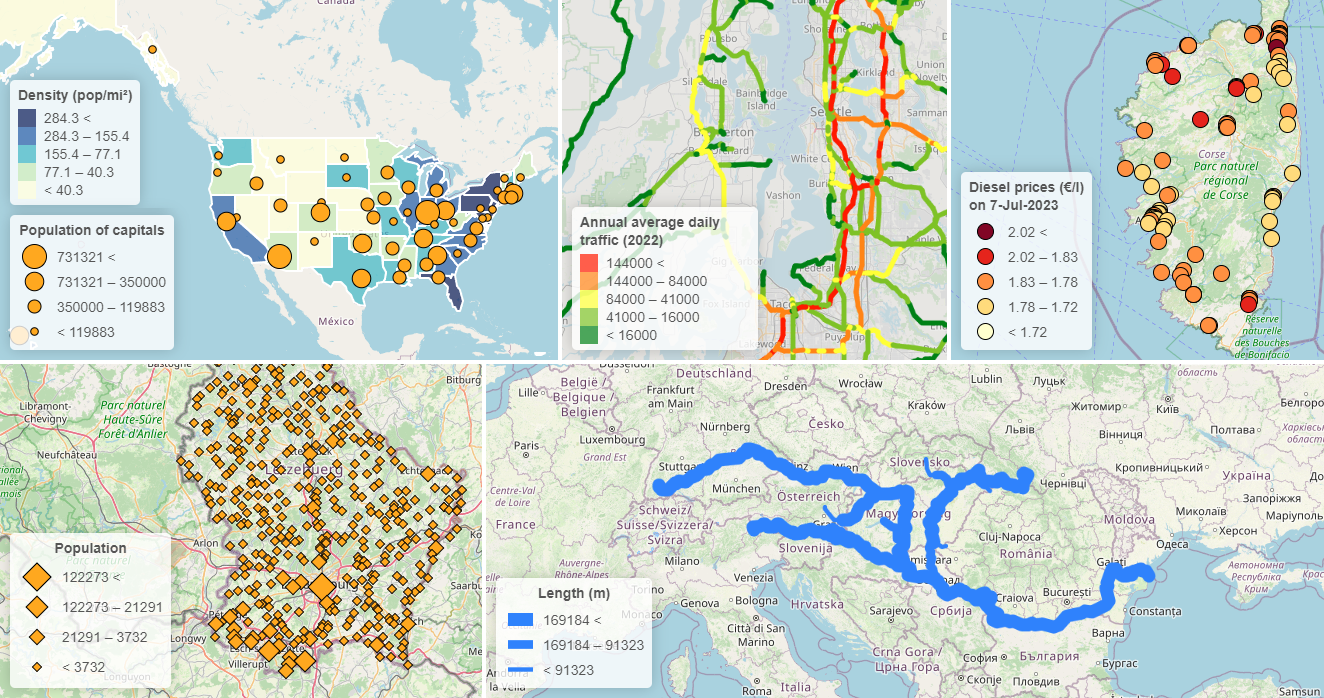
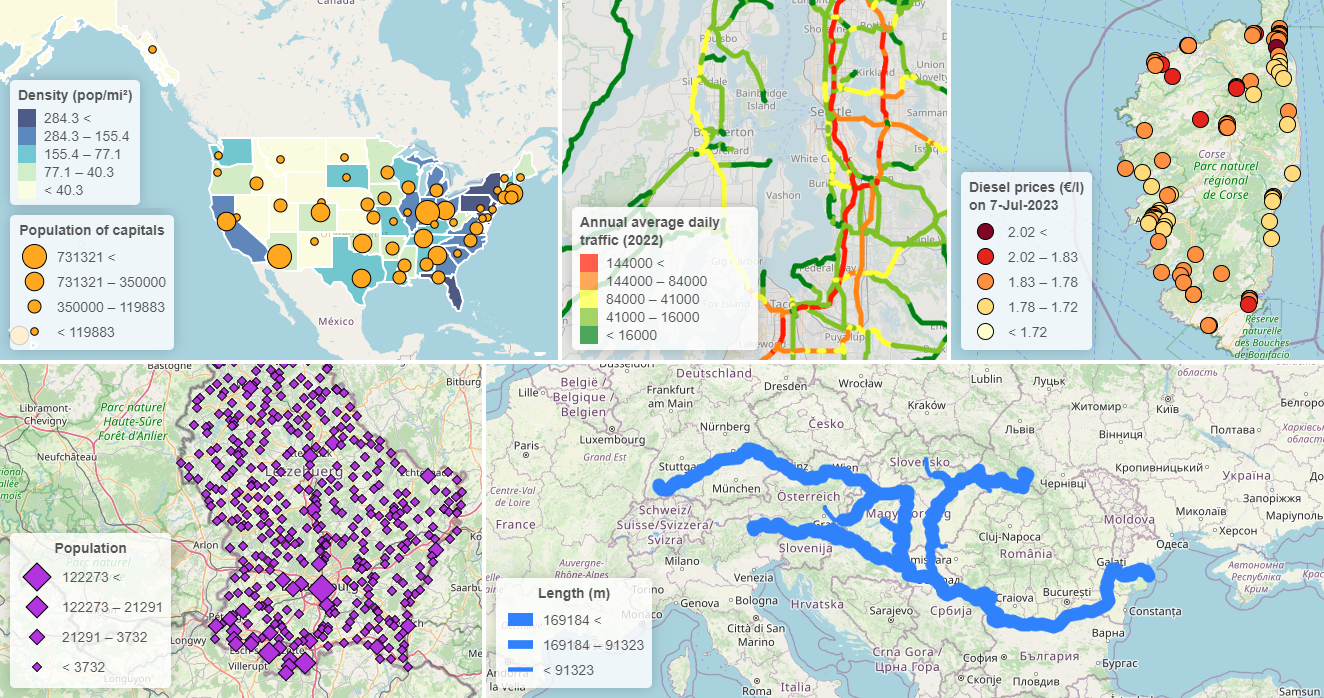
Support for marker fill color (points/size mode)
- when a `fillColor` property exists in the custom `style` object upon creation, the SVG markers now reflect the overriding color (see example "points_s.html"). Was necessary, since points dont adopt the GeoJSON options due to custom SVG markers.
- updated readme to reflect new styling options
- updated screenshot (new points_s)

Changed region(s): [[0.0, 0.5115, 0.3716, 1.0], [0.0, 0.8123, 0.0619, 0.9327]]

diff --git a/leaflet-dataclassification.js b/leaflet-dataclassification.js
@@ -35,7 +35,12 @@ L.DataClassification = L.GeoJSON.extend({
         /*middlePointValue: 0,*/					// optional: adjust boundary value of middle classes (only for even classcount), useful for symmetric classification of diverging data around 0 for example. Only use a value within the original middle classes range.
         /*field: '',*/					            // target attribute field name. Case-sensitive!
         legendTitle: '',					        // title for legend (usually a description of visualized data). HTML-markdown and styling allowed. If you want to hide title, set this as 'hidden'. (default: ='field')
-        classRounding: 0                            // class boundary value rounding to decimal (default: 0 - whole numbers), set -1 to disable rounding
+        classRounding: 0,                           // class boundary value rounding to decimal (default: 0 - whole numbers), set -1 to disable rounding
+        
+        style: {
+            fillColor: 'orange',
+            color: L.Path.prototype.options.color
+        }
     },
 
     // variables for plugin scope
@@ -49,7 +54,6 @@ L.DataClassification = L.GeoJSON.extend({
     _field: '',
     _pointShape: '',
     _linecolor: '',
-    _pointcolor: '',
 
     // value evaluators to match classes
     _getColor(d) {
@@ -88,9 +92,9 @@ L.DataClassification = L.GeoJSON.extend({
             radius: 8
         };			
     },
-    _stylePoint_size(value){
+    _stylePoint_size(value, options){
         return {
-            fillColor: "orange",
+            fillColor: options.style.fillColor,
             fillOpacity: 1,
             color: "black",
             weight: 1,
@@ -141,7 +145,6 @@ L.DataClassification = L.GeoJSON.extend({
 
     _svgCreator(options){
         (options.shape == null ? options.shape = 'circle' : '');			// default shape
-        (options.color == null ? options.color = 'orange' : '');			// default color
         (options.size == null ? options.size = 8 : '');						// default size
         var svg;
         switch (options.shape) {
@@ -172,10 +175,10 @@ L.DataClassification = L.GeoJSON.extend({
         return svg;
     },
 
-    _generateLegend(title, asc, round, mode_line, mode_point, typeOfFeatures) {
+    _generateLegend(title, asc, round, mode_line, mode_point, typeOfFeatures, pfc) {
         svgCreator = this._svgCreator;
         ps = this._pointShape;
-        lc = this._linecolor
+        lc = this._linecolor;
 
         var legend = L.control({position: 'bottomleft'});
         
@@ -217,7 +220,7 @@ L.DataClassification = L.GeoJSON.extend({
                                     /*console.log('Legend: building line', i+1)*/
                                     container +=
                                         '<div style="display: flex; flex-direction: row; align-items: center">'+
-                                            svgCreator({shape: ps, size: radiuses[i]})+
+                                            svgCreator({shape: ps, size: radiuses[i], color: pfc})+
                                             '<div>'+(i == 0 ? '< ' : classes[i] + (classes[i + 1] ? ' &ndash; ' : '')) + (classes[i + 1] ? classes[i + 1] : ' <')+'</div>'+
                                         '</div>';
                                 }
@@ -244,7 +247,7 @@ L.DataClassification = L.GeoJSON.extend({
                                     /*console.log('Legend: building line', i)*/
                                     container +=
                                         '<div style="display: flex; flex-direction: row; align-items: center">'+
-                                            svgCreator({shape: ps, size: radiuses[i-1]})+
+                                            svgCreator({shape: ps, size: radiuses[i-1], color: pfc})+
                                             '<div>'+(i == 1 ? '< ' : '') + (i == classes.length ? classes[i-1] + ' <' : classes[i] + (i == 1 ? '' : ' &ndash; ' + classes[i-1]))+'</div>'+
                                         '</div>';
                                 }
@@ -361,7 +364,7 @@ L.DataClassification = L.GeoJSON.extend({
     },
 
     _classify(map) {
-        _field=this.options.field
+        _field=this.options.field;
         var features_info = { Point: 0, MultiPoint: 0, LineString: 0, MultiLineString: 0, Polygon: 0, MultiPolygon: 0};
         var typeOfFeatures = 'unknown';
         values = [];
@@ -445,6 +448,7 @@ L.DataClassification = L.GeoJSON.extend({
             console.warn("Don't be silly, legend will look incomprehensible. Overriding classrounding with 0 (whole numbers)."); 
             classrounding = 0;
         }; 
+        var pointfillcolor = this.options.style.fillColor;
 
         // classification process
         var success = false;
@@ -519,7 +523,7 @@ L.DataClassification = L.GeoJSON.extend({
                 console.log('Adjusting middle classes to value: ', middlepoint);
                 classes[classes.length / 2] = middlepoint;
             }
-            this._generateLegend(legendtitle, asc, classrounding, mode_line, mode_point, typeOfFeatures);
+            this._generateLegend(legendtitle, asc, classrounding, mode_line, mode_point, typeOfFeatures, pointfillcolor);
         } else {
             console.error('Classnumber out of range (must be: 2 < x <', values.length, '(featurecount))!');
             return;
@@ -537,6 +541,7 @@ L.DataClassification = L.GeoJSON.extend({
         getRadius = this._getRadius;
         getWeight = this._getWeight;
         pointMarkers = this._pointMarkers;
+        options = this.options;
 
         currentmarker = null;
 
@@ -544,7 +549,7 @@ L.DataClassification = L.GeoJSON.extend({
         this.eachLayer(function(layer) {
             if (layer.feature.geometry.type == "Point" || layer.feature.geometry.type == "MultiPoint") {
                 var coords = layer.feature.geometry.coordinates;
-                var style = (mode_point == "color" ? stylePoint_color(layer.feature.properties[this._field]) : stylePoint_size(layer.feature.properties[this._field]))
+                var style = (mode_point == "color" ? stylePoint_color(layer.feature.properties[this._field]) : stylePoint_size(layer.feature.properties[this._field], this.options))
                 style.shape = ps;
 
                 const svgIcon = L.divIcon({

diff --git a/examples/points_s.html b/examples/points_s.html
@@ -70,6 +70,7 @@
 					classRounding: 0,
 					legendTitle: 'Population',
 					pointShape: 'diamond',
+					style: {fillColor: '#B136E3'},
 					onEachFeature: tooltip
 				}).addTo(map);
 				map.fitBounds(testdata.getBounds());

diff --git a/README.md b/README.md
@@ -57,12 +57,16 @@ const layer = L.dataClassification(data, {
     lineMode: 'width',
     lineWidth: {min: 1, max: 15},
     colorRamp: 'OrRd',
-    colorCustom: ['rgba(210,255,178,1)', '#fec44fff', 'f95f0eff'],    // if specified, overrides colorRamp!
+    colorCustom: ['rgba(210,255,178,1)', '#fec44fff', 'f95f0eff'],  // if specified, overrides colorRamp!
     legendAscending: false,	
     reverseColorRamp: false,
     middlePointValue: 0,
     legendTitle: 'Density (pop/km²)',	
-    classRounding: 2
+    classRounding: 2,
+    style: {
+        fillColor: 'purple' // marker fill color in point/size mode
+        color: '#aabbcc'    // line stroke color in line/width mode
+    }
 }.addTo(map);
 ```
 
@@ -74,11 +78,19 @@ const layer = L.dataClassification(data, {
 ### Additional options (in addition to the standard L.geoJSON options)
 #### Specific for Point	features
 - `pointMode <string>`: ['color'|'size'] fill "color" or "size" (default: 'color')
-- `pointSize <object>`: when pointMode: "size", define min/max point circle radius (defaults: {min: 2, max: 10}, recommended max: 12)
+- `pointSize <object>`: when pointMode: "size", define min/max point circle radius 
+    - `min <float>`: symbol size for the lowest class. (default: 2)
+    - `max <float>`: symbol size for the highest class. (default: 10)
 - `pointShape <string>`: ['circle'|'square'|'diamond'] shape of points: 'circle', 'square', 'diamond' (default: 'circle')
+- `style <object>`: custom styling
+    - `fillColor <string>`: marker fill color, use only in size mode (default: orange)
 #### Specific for Line features
 - `lineMode <string>`: ['color'|'width'] stroke "color" or "width" (default: 'color')
-- `lineWidth <object>`: when lineMode: "width", define min/max stroke width as object (defaults: {min: 3, max: 15}, recommended max: 20)
+- `lineWidth <object>`: when lineMode: "width", define min/max stroke width as object
+    - `min <float>`: symbol size for the lowest class. (default: 3)
+    - `max <float>`: symbol size for the highest class. (default: 15)
+- `style <object>`: custom styling
+    - `color <string>`: line stroke color, use only in width mode (default: blue, the leaflet-path default)
 #### General options
 - `colorRamp <string>`: color ramp to use for symbology. Based on ColorBrewer2 color ramps (https://colorbrewer2.org/), included in Chroma.js. Custom colors (`colorCustom`) override this. (default: 'PuRd')
 - `colorCustom <array>`: custom color ramp defined as an array, colors in formats supported by Chroma.js, with opacity support. A minimum of two colors are required. If defined, custom colors override `colorRamp`. Example: ['rgba(210,255,178,1)', '#fec44fff', 'f95f0eff']. Examples for yellow in different color formats: 'ffff00', '#ff0', 'yellow', '#ffff0055', 'rgba(255,255,0,0.35)', 'hsla(58,100%,50%,0.6)', chroma('yellow').alpha(0.5). For more formats, see: https://gka.github.io/chroma.js/. For an interactive color palette helper, see: https://gka.github.io/palettes/.
